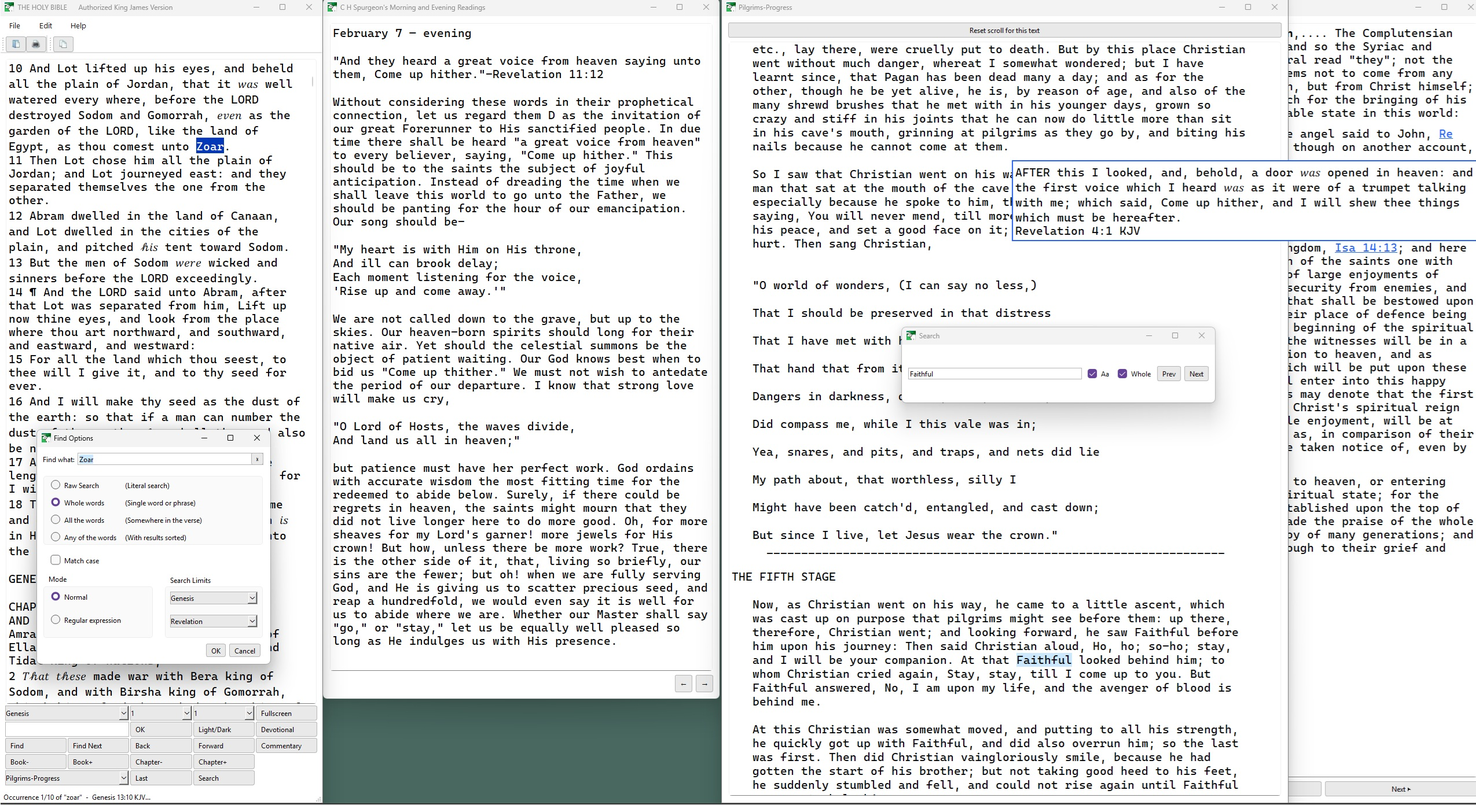
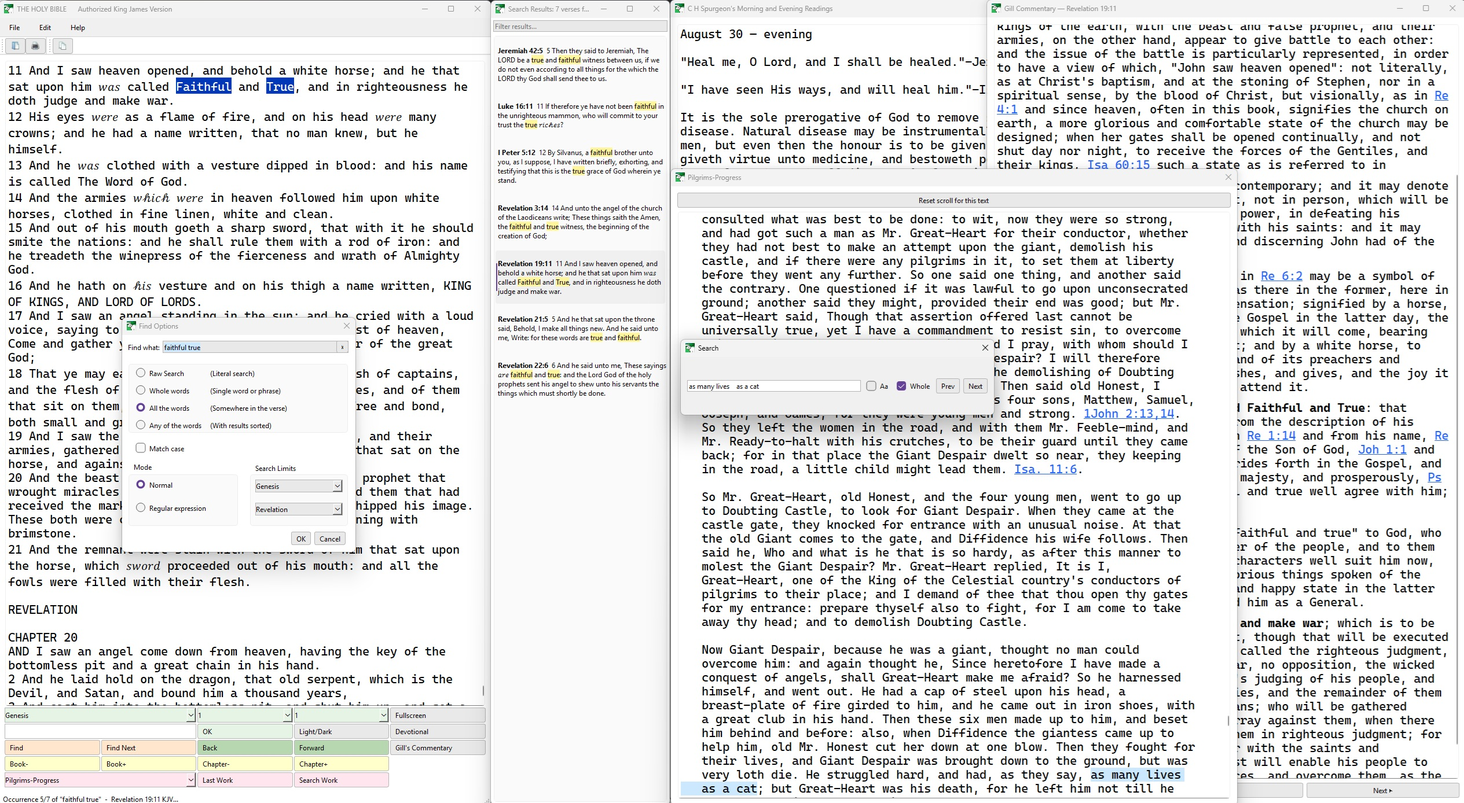
Update v417.30

diff --git a/src/abib/ui/text_window.py b/src/abib/ui/text_window.py
@@ -2068,9 +2068,9 @@ class TextDocumentWindow(QDialog):
                 # from a bare integer here.
                 flags: Any = QTextDocument.FindFlag(0)
                 if self.case_box.isChecked():
-                    flags |= getattr(QTextDocument.FindFlag, "FindCaseSensitively", QTextDocument.FindFlag(0))
+                    flags |= cast(Any, getattr(QTextDocument.FindFlag, "FindCaseSensitively", QTextDocument.FindFlag(0)))
                 if self.whole_box.isChecked():
-                    flags |= getattr(QTextDocument.FindFlag, "FindWholeWords", QTextDocument.FindFlag(0))
+                    flags |= cast(Any, getattr(QTextDocument.FindFlag, "FindWholeWords", QTextDocument.FindFlag(0)))
                 return flags
             except (AttributeError, TypeError, RuntimeError, ValueError):
                 # Fallback to integer flags using helper if enums are unavailable
@@ -2126,51 +2126,98 @@ class TextDocumentWindow(QDialog):
             term = win_dlg.edit.text()
         except (RuntimeError, AttributeError):
             term = ""
+        # Ignore any CR/LF characters that may be present in the search term
+        # (e.g. pasted multi-line text); QPlainTextEdit.find cannot match across
+        # line boundaries, so strip them out before searching.
+        if term:
+            term = term.replace("\r", "").replace("\n", "")
         if not term:
             return
 
-        win_dlg_f: Any = dlg
-        flags = win_dlg_f.build_flags()
-        if not forward:
-            try:
-                flags |= getattr(QTextDocument.FindFlag, "FindBackward", _qdoc_find_flag("FindBackward"))
-            except (AttributeError, TypeError, RuntimeError, ValueError):
-                # Keep whatever we have
-                pass
-
-        # If term changed, restart from beginning/end
-        dlg_term: Any = dlg
-        last_term = getattr(dlg_term, "_last_term", "")
-        if term != last_term:
-            try:
-                dlg_term._last_term = term
-                cursor = self.text_edit.textCursor()
-                if forward:
-                    cursor.setPosition(0)
-                else:
-                    doc = self.text_edit.document()
-                    cursor.setPosition(doc.characterCount() - 1)
-                self.text_edit.setTextCursor(cursor)
-            except (RuntimeError, AttributeError):
-                pass
-
-        # Try to find; if not found (or an error occurs), wrap once and try again
+        # Read the search options (case sensitivity / whole word) from the dialog.
+        dlg_opts: Any = dlg
         try:
-            # Pass proper flags to find(); avoid casting to Any to keep types compatible
-            # but use cast(Any, flags) if the analyzer is still unhappy with the int/FindFlag mismatch
-            f_flags: Any = flags
-            if not self.text_edit.find(term, f_flags):
-                cursor = self.text_edit.textCursor()
-                if forward:
-                    cursor.setPosition(0)
+            case_sensitive = bool(dlg_opts.case_box.isChecked())
+        except (RuntimeError, AttributeError):
+            case_sensitive = False
+        try:
+            whole_words = bool(dlg_opts.whole_box.isChecked())
+        except (RuntimeError, AttributeError):
+            whole_words = False
+
+        # Search over the original document text, but allow any run of whitespace
+        # (including CR/LF line breaks) in the document to match a single space in
+        # the search term. This lets a term like "as many lives as a cat" match
+        # text where a line break separates "lives" and "as". QPlainTextEdit.find
+        # cannot match across line boundaries, so we run our own regex search and
+        # then map the match back to a cursor selection in the real document.
+        try:
+            doc_text = self.text_edit.toPlainText()
+        except (RuntimeError, AttributeError):
+            doc_text = ""
+
+        if not doc_text:
+            return
+
+        # Build a regular expression from the term. Split the term on whitespace
+        # and join the (escaped) tokens with \s+ so any whitespace in the term
+        # matches one or more whitespace characters (spaces, tabs, CR/LF) in the
+        # searched text. This is what allows a match to span a line break.
+        try:
+            tokens: list[str] = [str(re.escape(tok)) for tok in term.split() if tok]
+            if not tokens:
+                return
+            pattern = r"\s+".join(tokens)
+            if whole_words:
+                pattern = r"\b" + pattern + r"\b"
+            regex = re.compile(pattern, 0 if case_sensitive else re.IGNORECASE)
+        except (re.error, ValueError):
+            return
+
+        # Determine where to start searching from, based on the current selection.
+        try:
+            cur = self.text_edit.textCursor()
+            sel_start = cur.selectionStart()
+            sel_end = cur.selectionEnd()
+        except (RuntimeError, AttributeError):
+            sel_start = 0
+            sel_end = 0
+
+        match: Any
+        if forward:
+            match = regex.search(doc_text, max(0, int(sel_end)))
+            if match is None:
+                # Wrap around to the beginning of the document.
+                match = regex.search(doc_text, 0)
+        else:
+            last_before: Any = None
+            for m in regex.finditer(doc_text):
+                if m.end() <= sel_start:
+                    last_before = m
                 else:
-                    doc = self.text_edit.document()
-                    cursor.setPosition(doc.characterCount() - 1)
-                self.text_edit.setTextCursor(cursor)
-                self.text_edit.find(term, f_flags)
-        except (RuntimeError, AttributeError, TypeError):
-            # Silently ignore lifecycle/type errors from Qt objects
-            pass
+                    break
+            if last_before is None:
+                # Wrap around to the last match in the document.
+                for m in regex.finditer(doc_text):
+                    last_before = m
+            match = last_before
+
+        if match is None:
+            return
+
+        # Select the match in the real document.
+        try:
+            orig_start = int(match.start())
+            orig_end = int(match.end())
+            if orig_end <= orig_start:
+                return
+            cursor = self.text_edit.textCursor()
+            cursor.setPosition(orig_start)
+            cursor.setPosition(orig_end, QTextCursor.MoveMode.KeepAnchor)
+            self.text_edit.setTextCursor(cursor)
+        except (RuntimeError, AttributeError, IndexError, TypeError):
+            return
+
         try:
             self.text_edit.ensureCursorVisible()
         except (RuntimeError, AttributeError):

diff --git a/src/abib/core/shared.py b/src/abib/core/shared.py
@@ -46,7 +46,7 @@ def _get_version() -> str:
             continue
             
     # 2. Hardcoded fallback (should be updated per release)
-    return "417.29"
+    return "417.30"
 
 CURRENT_VERSION = _get_version()
 

diff --git a/src/abib/Abib.py b/src/abib/Abib.py
@@ -41,7 +41,7 @@ Abib Bible Reader אביב
 
 Using PySide6-6.11.2 and python3.14.7 (64-bit).
 
-18/08/2026
+30/08/2026
 
 # Automatically upgrade all packages to their latest versions
 uv sync --all-extras --upgrade
